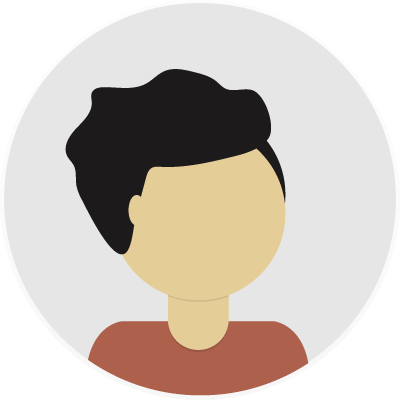
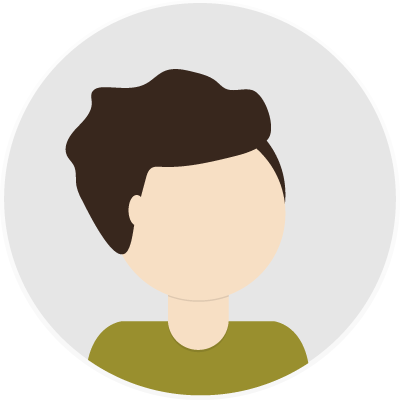
works further on guest profiles

diff --git a/app/src/components/GuestProfile/GuestCard.tsx b/app/src/components/GuestProfile/GuestCard.tsx
@@ -1,50 +1,56 @@
-import * as React from 'react';
-import { Guest } from '../../models/Guest'
+import * as React from "react"
+import { Guest } from "../../models/Guest"
 import { makeStyles } from "@material-ui/core/styles"
 
 const useStyles = makeStyles(() => ({
-    guestCardContainer: {
-        height: "400px",
-        padding: "10px 20px",
-        flexGrow: 1,
-        display: "flex",
-        flexWrap: "wrap",
-        justifyContent: "center",
-        alignItems: "flex-start"
-
-    },
-    guestImageContainer: {
-        display: "flex",
-        flexDirection: "column",
-        alignItems: "center",
-        justifyContent: "center",
-    },
-    guestImage: {
-
-        boxShadow: "0px 2px 1px -1px rgba(0,0,0,0.2),0px 1px 1px 0px rgba(0,0,0,0.14),0px 1px 3px 0px rgba(0,0,0,0.12)"
-    }
+  guestCardContainer: {
+    height: "400px",
+    padding: "10px 20px",
+    flexGrow: 1,
+    display: "flex",
+    flexWrap: "wrap",
+    justifyContent: "center",
+    alignItems: "flex-start"
+  },
+  guestImageContainer: {
+    display: "flex",
+    flexDirection: "column",
+    alignItems: "center",
+    justifyContent: "center"
+  },
+  guestImage: {
+    boxShadow:
+      "0px 2px 1px -1px rgba(0,0,0,0.2),0px 1px 1px 0px rgba(0,0,0,0.14),0px 1px 3px 0px rgba(0,0,0,0.12)"
+  }
 }))
 
 interface Props {
-    guest: Guest
+  guest: Guest
 }
 
 const GuestCard = ({ guest }: Props) => {
+  const randomProfile = Math.floor(Math.random() * 4)
 
-    const style = useStyles()
+  const style = useStyles()
 
-    return (
-        <div className={style.guestCardContainer}>
-            <div className={style.guestImageContainer}>
-                <img
-                    className={style.guestImage}
-                    src={guest.id === 999 ? "/hosthome/img/kirk.png" : guest.id === 998 ? "/hosthome/img/megan.png" : "/hosthome/img/profile2.png"}
-                    alt={"Guest Image"}
-                    height="400px"
-                />
-            </div>
-        </div>
-    )
+  return (
+    <div className={style.guestCardContainer}>
+      <div className={style.guestImageContainer}>
+        <img
+          className={style.guestImage}
+          src={
+            guest.id === 999
+              ? "/hosthome/img/kirk.png"
+              : guest.id === 998
+              ? "/hosthome/img/megan.png"
+              : `/hosthome/img/profile${randomProfile}.png`
+          }
+          alt={"Guest Image"}
+          height="400px"
+        />
+      </div>
+    </div>
+  )
 }
 
 export default GuestCard
